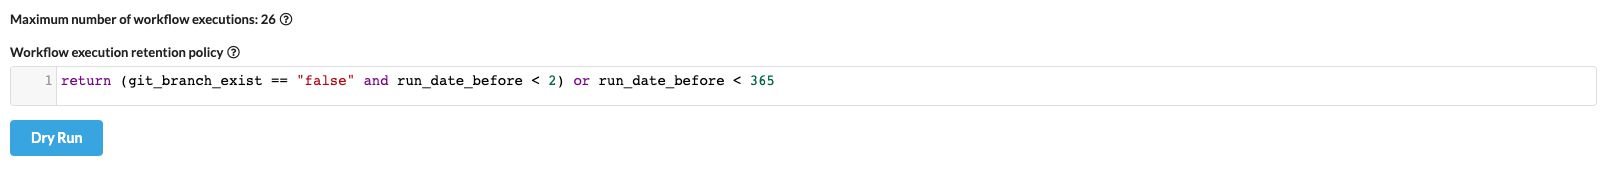
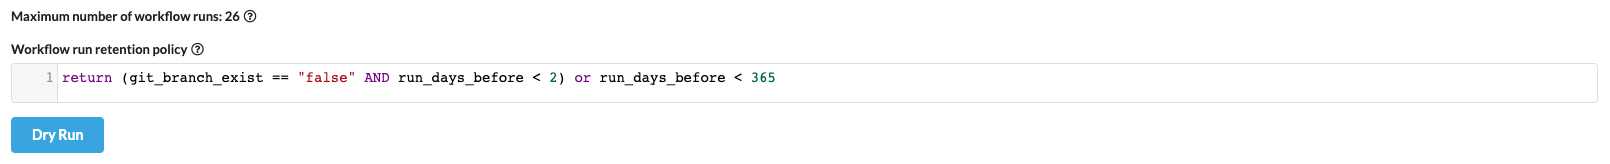
fix: code review

diff --git a/engine/api/api_routes.go b/engine/api/api_routes.go
@@ -101,9 +101,6 @@ func (api *API) InitRouter() {
 	r.Handle("/admin/services", Scope(sdk.AuthConsumerScopeAdmin), r.GET(api.getAdminServicesHandler, service.OverrideAuth(api.authAdminMiddleware)))
 	r.Handle("/admin/services/call", Scope(sdk.AuthConsumerScopeAdmin), r.GET(api.getAdminServiceCallHandler, service.OverrideAuth(api.authAdminMiddleware)), r.POST(api.postAdminServiceCallHandler, service.OverrideAuth(api.authAdminMiddleware)), r.PUT(api.putAdminServiceCallHandler, service.OverrideAuth(api.authAdminMiddleware)), r.DELETE(api.deleteAdminServiceCallHandler, service.OverrideAuth(api.authAdminMiddleware)))
 
-	// Admin workflow
-	r.Handle("/admin/project/{key}/workflows/{permWorkflowName}/retention/maxruns", Scope(sdk.AuthConsumerScopeAdmin), r.POST(api.postWorkflowMaxRunHandler))
-
 	// Admin database
 	r.Handle("/admin/database/signature", Scope(sdk.AuthConsumerScopeAdmin), r.GET(api.getAdminDatabaseSignatureResume, service.OverrideAuth(api.authAdminMiddleware)))
 	r.Handle("/admin/database/signature/{entity}/roll/{pk}", Scope(sdk.AuthConsumerScopeAdmin), r.POST(api.postAdminDatabaseSignatureRollEntityByPrimaryKey, service.OverrideAuth(api.authAdminMiddleware)))
@@ -238,6 +235,7 @@ func (api *API) InitRouter() {
 	r.Handle("/project/{permProjectKey}/workflows", Scope(sdk.AuthConsumerScopeProject), r.POST(api.postWorkflowHandler), r.GET(api.getWorkflowsHandler))
 	r.Handle("/project/{permProjectKey}/workflows/runs/nodes/ids", Scope(sdk.AuthConsumerScopeProject), r.GET(api.getWorkflowsRunsAndNodesIDshandler))
 	r.Handle("/project/{key}/workflows/{permWorkflowName}", Scope(sdk.AuthConsumerScopeProject), r.GET(api.getWorkflowHandler), r.PUT(api.putWorkflowHandler), r.DELETE(api.deleteWorkflowHandler))
+	r.Handle("/project/{key}/workflows/{permWorkflowName}/retention/maxruns", Scope(sdk.AuthConsumerScopeProject), r.POST(api.postWorkflowMaxRunHandler, service.OverrideAuth(api.authAdminMiddleware)))
 	r.Handle("/project/{key}/workflows/{permWorkflowName}/retention/dryrun", Scope(sdk.AuthConsumerScopeProject), r.POST(api.postWorkflowRetentionPolicyDryRun))
 	r.Handle("/project/{key}/workflows/{permWorkflowName}/retention/suggest", Scope(sdk.AuthConsumerScopeProject), r.GET(api.getRetentionPolicySuggestionHandler))
 	r.Handle("/project/{key}/workflows/{permWorkflowName}/eventsintegration/{integrationID}", Scope(sdk.AuthConsumerScopeProject), r.DELETE(api.deleteWorkflowEventsIntegrationHandler))

diff --git a/sdk/cdsclient/client_admin.go b/sdk/cdsclient/client_admin.go
@@ -187,7 +187,7 @@ func (c *client) AdminDatabaseRollAllEncryptedEntities() error {
 
 func (c *client) AdminWorkflowUpdateMaxRuns(projectKey string, workflowName string, maxRuns int64) error {
 	request := sdk.UpdateMaxRunRequest{MaxRuns: maxRuns}
-	url := fmt.Sprintf("/admin/project/%s/workflows/%s/retention/maxruns", projectKey, workflowName)
+	url := fmt.Sprintf("/project/%s/workflows/%s/retention/maxruns", projectKey, workflowName)
 	if _, err := c.PostJSON(context.Background(), url, &request, nil); err != nil {
 		return err
 	}

diff --git a/docs/content/docs/concepts/workflow/retention.md b/docs/content/docs/concepts/workflow/retention.md
@@ -12,7 +12,7 @@ You can configure the workflow run retention in the workflow advanced section on
 
 * On the second line, you will be able to define your retention policy through a lua condition.
 You will be able to use these variables:
-  * run_date_before: to identify runs older than x days
+  * run_days_before: to identify runs older than x days
   * git_branch_exist: to identify if the git branch used for this run still exists on the git repository
   * run_status: to identidy run status
   * and all variables defined in your workflow payload

diff --git a/docs/content/docs/concepts/files/workflow-syntax.md b/docs/content/docs/concepts/files/workflow-syntax.md
@@ -35,7 +35,7 @@ notifications:
     on_success: never
     recipients:
     - me@foo.bar
-retention_policy: return run_date_before < 7
+retention_policy: return run_days_before < 7
 ```
 
 There are two major things to understand: `workflow` and `hooks`. A workflow is a kind of graph starting from a root pipeline, and other pipelines with dependencies. In this example, the `deploy` pipeline will be triggered after the `build` pipeline.
